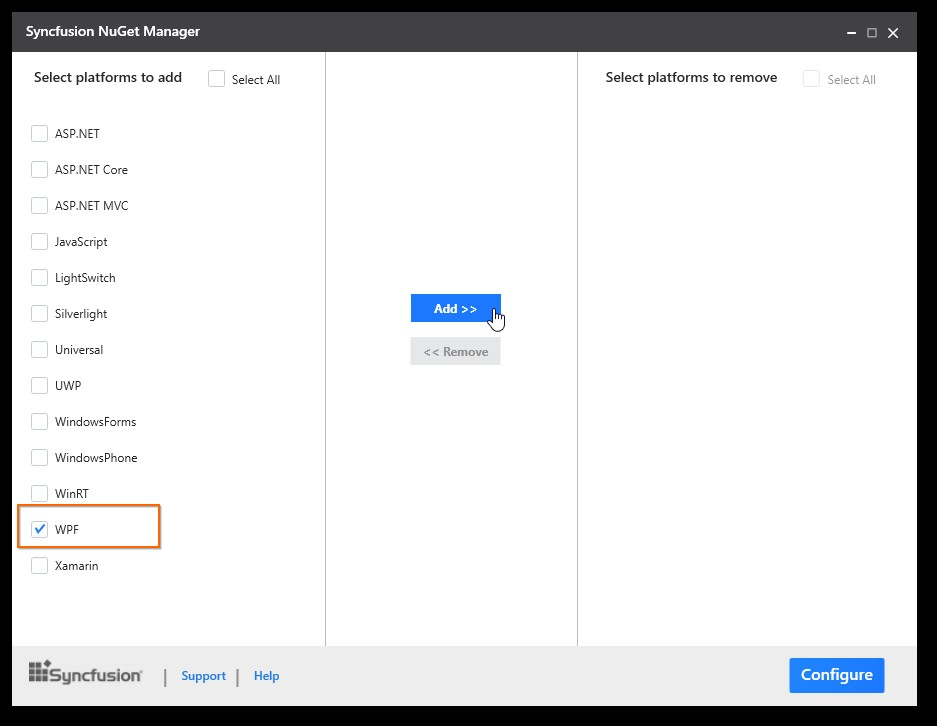
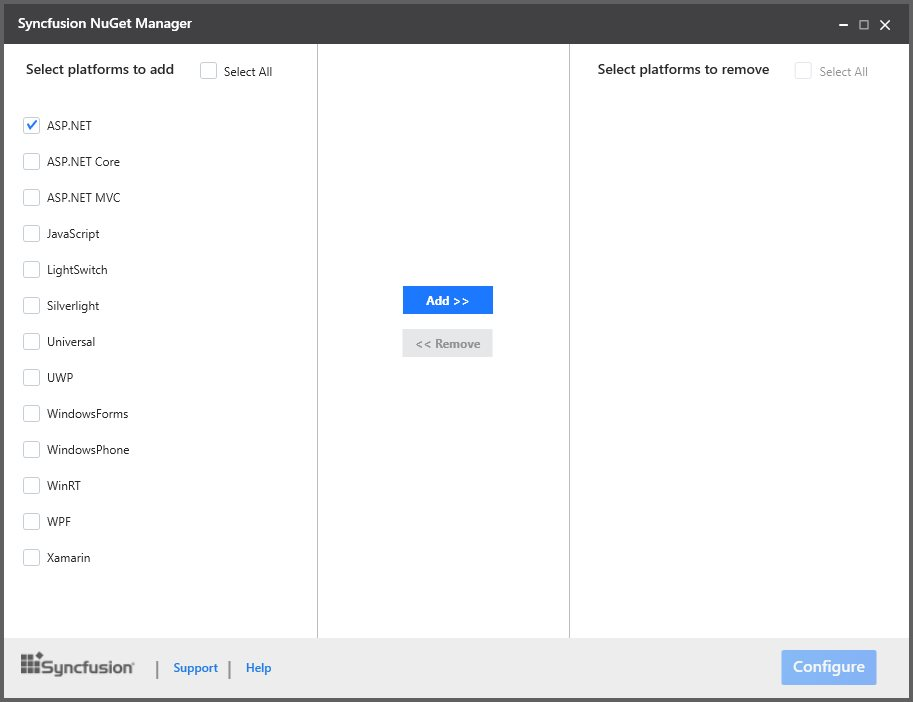
EXT-2153 Modified Syncfusion Nuget Manager Screenshot in NuGet Configuration (ASP.NET)

Changed region(s): [[0.0, 0.0, 1.0, 1.0], [0.4294, 0.3889, 0.552, 0.4487], [0.4294, 0.4786, 0.552, 0.5085]]

diff --git a/aspnet/Getting-Started.md b/aspnet/Getting-Started.md
@@ -78,7 +78,7 @@ The following steps help you configure Syncfusion NuGet Packages with a URL.
 1. **Syncfusion NuGet Manager** is allows you to **add** the Syncfusion NuGet sources (for available platforms) to NuGet Package Manager. Download the [Syncfusion NuGet Manager](http://www.syncfusion.com/downloads/support/directtrac/general/ze/SyncfusionNugetManager-1610952973.zip) utility.
 2. Extract zip file and run the SyncfusionNuGetManager.exe
 3. Syncfusion NuGet Manager Window will be opened.
-4. Select the platform **WPF** (or required platform) from **“Select platforms to add”** (Left side of the window) column and click **Add>>** button. Then click **Configure** button.
+4. Select the platform **ASP.NET** from **“Select platforms to add”** (Left side of the window) column and click **Add>>** button. Then click **Configure** button.
 
    ![](Getting-Started_images/Syncfusion_NuGet_Manager_img1.jpg)
 
